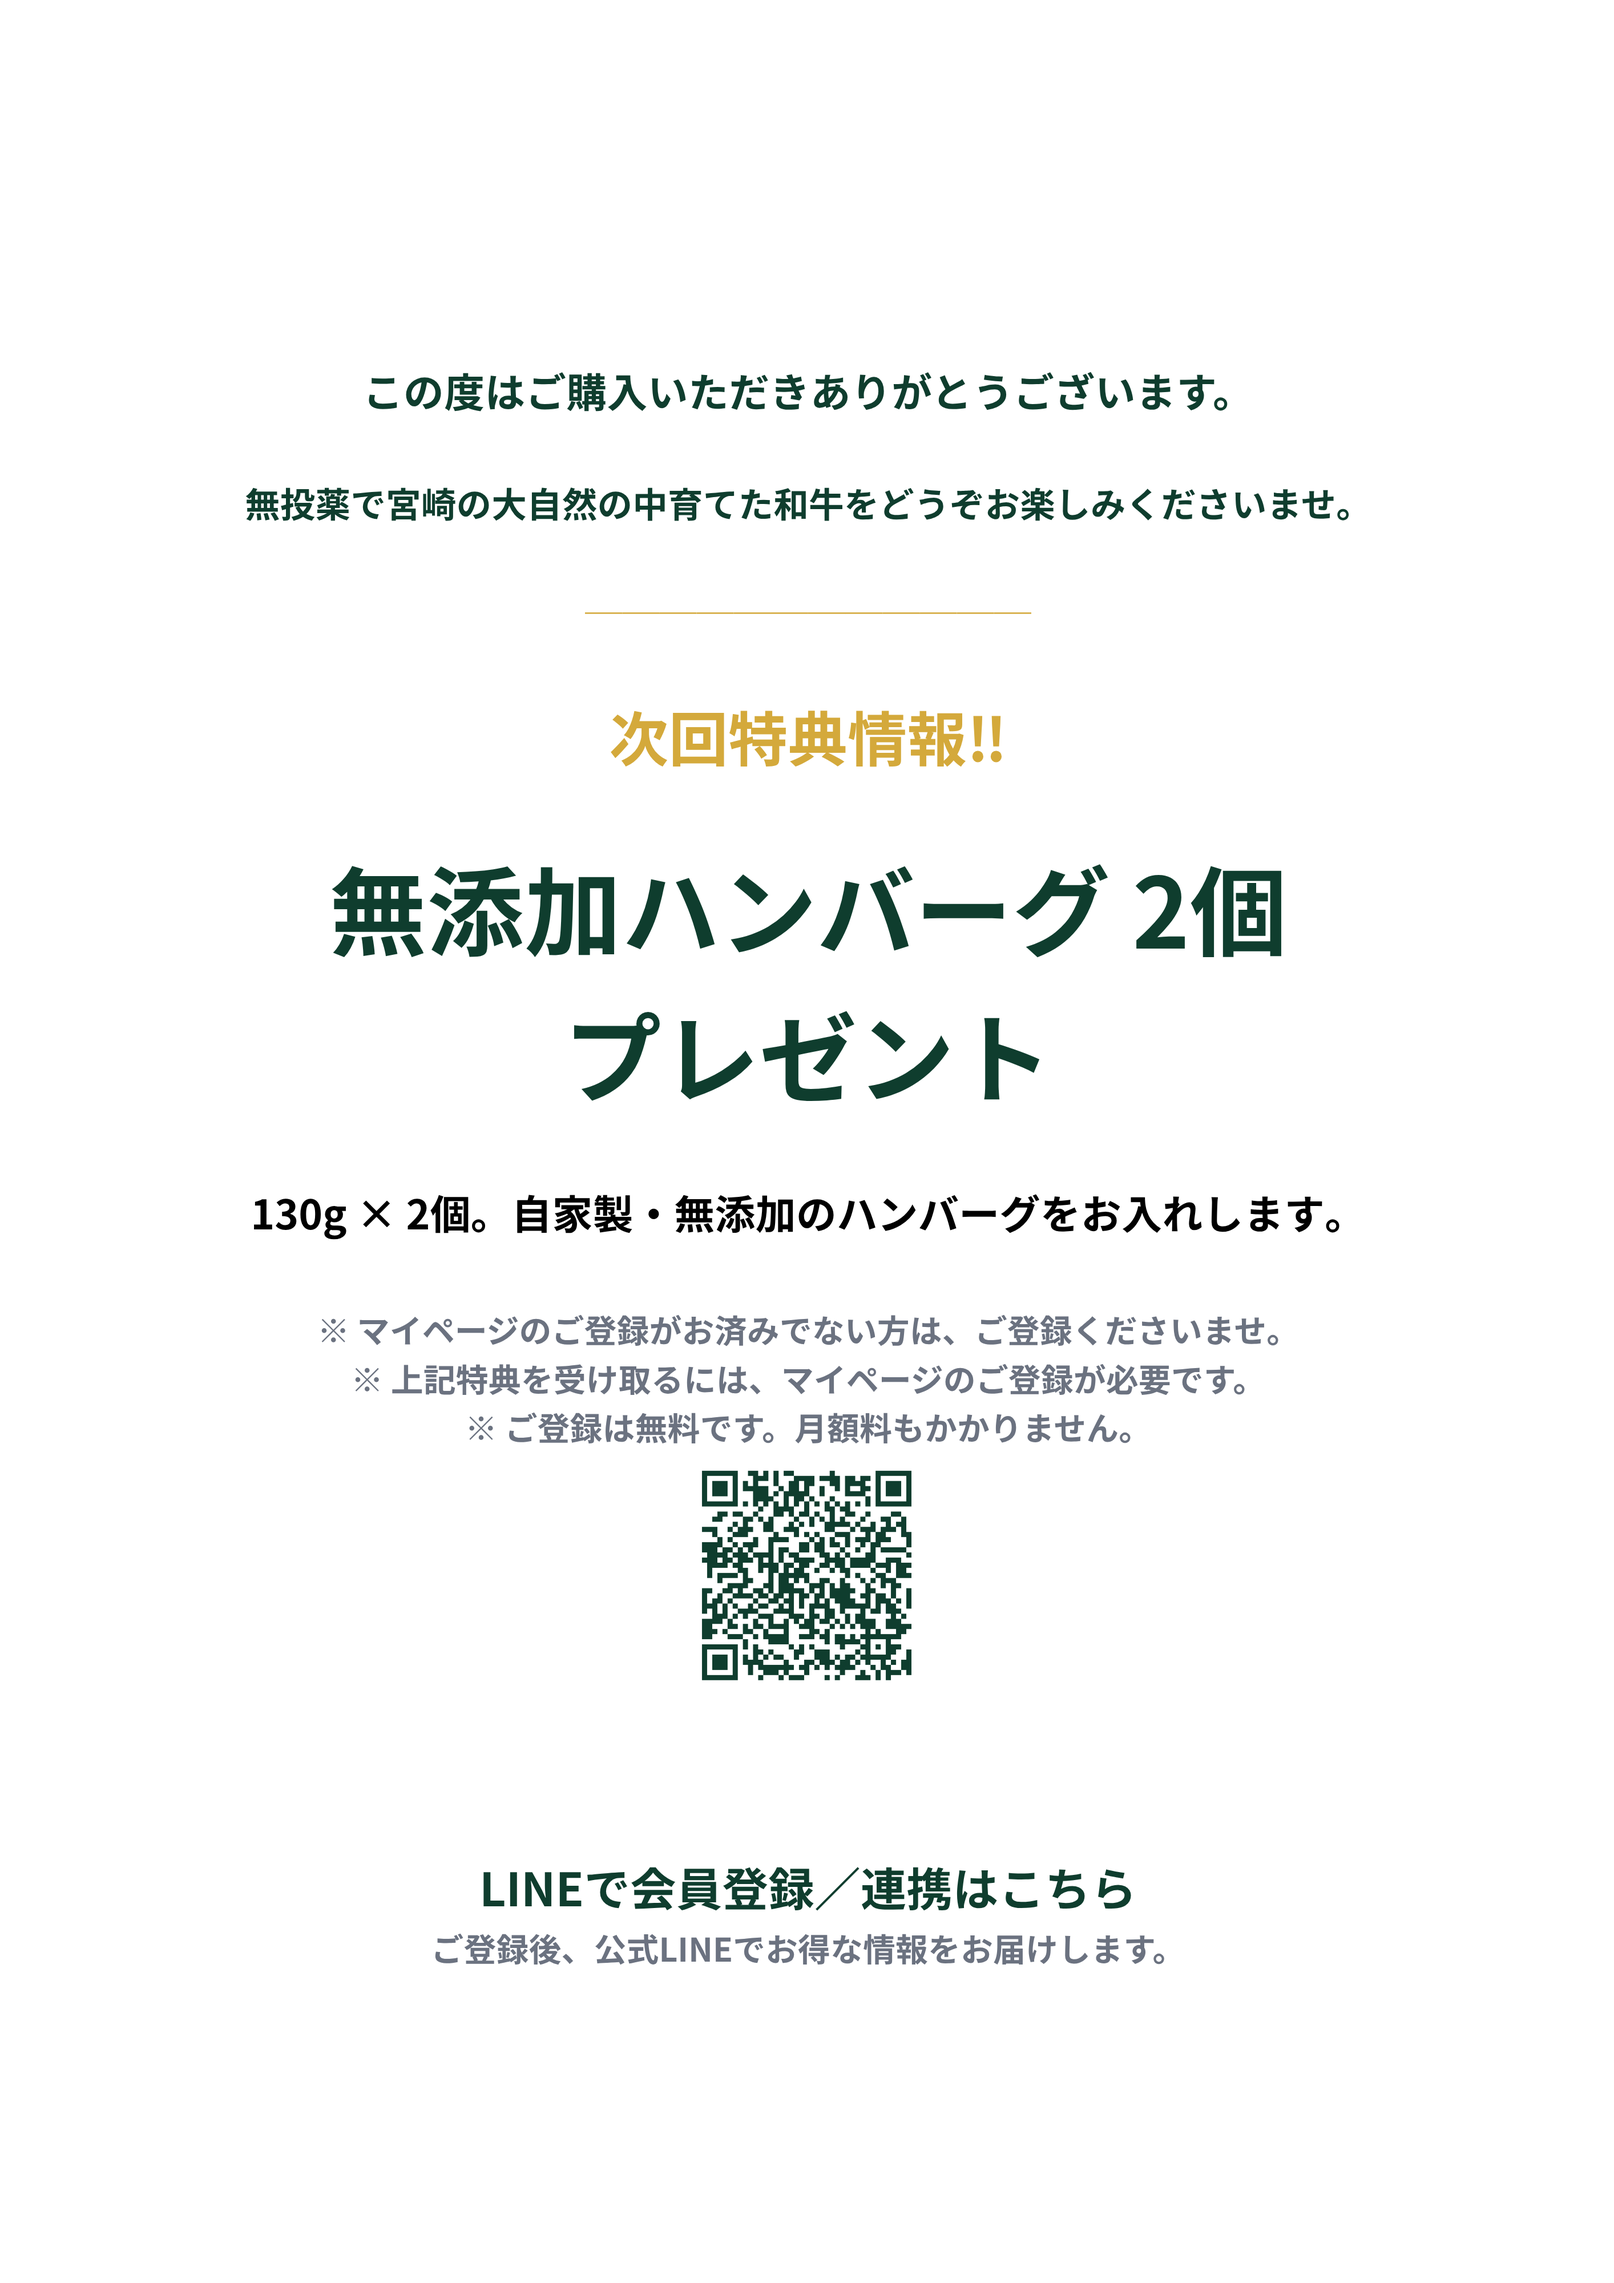
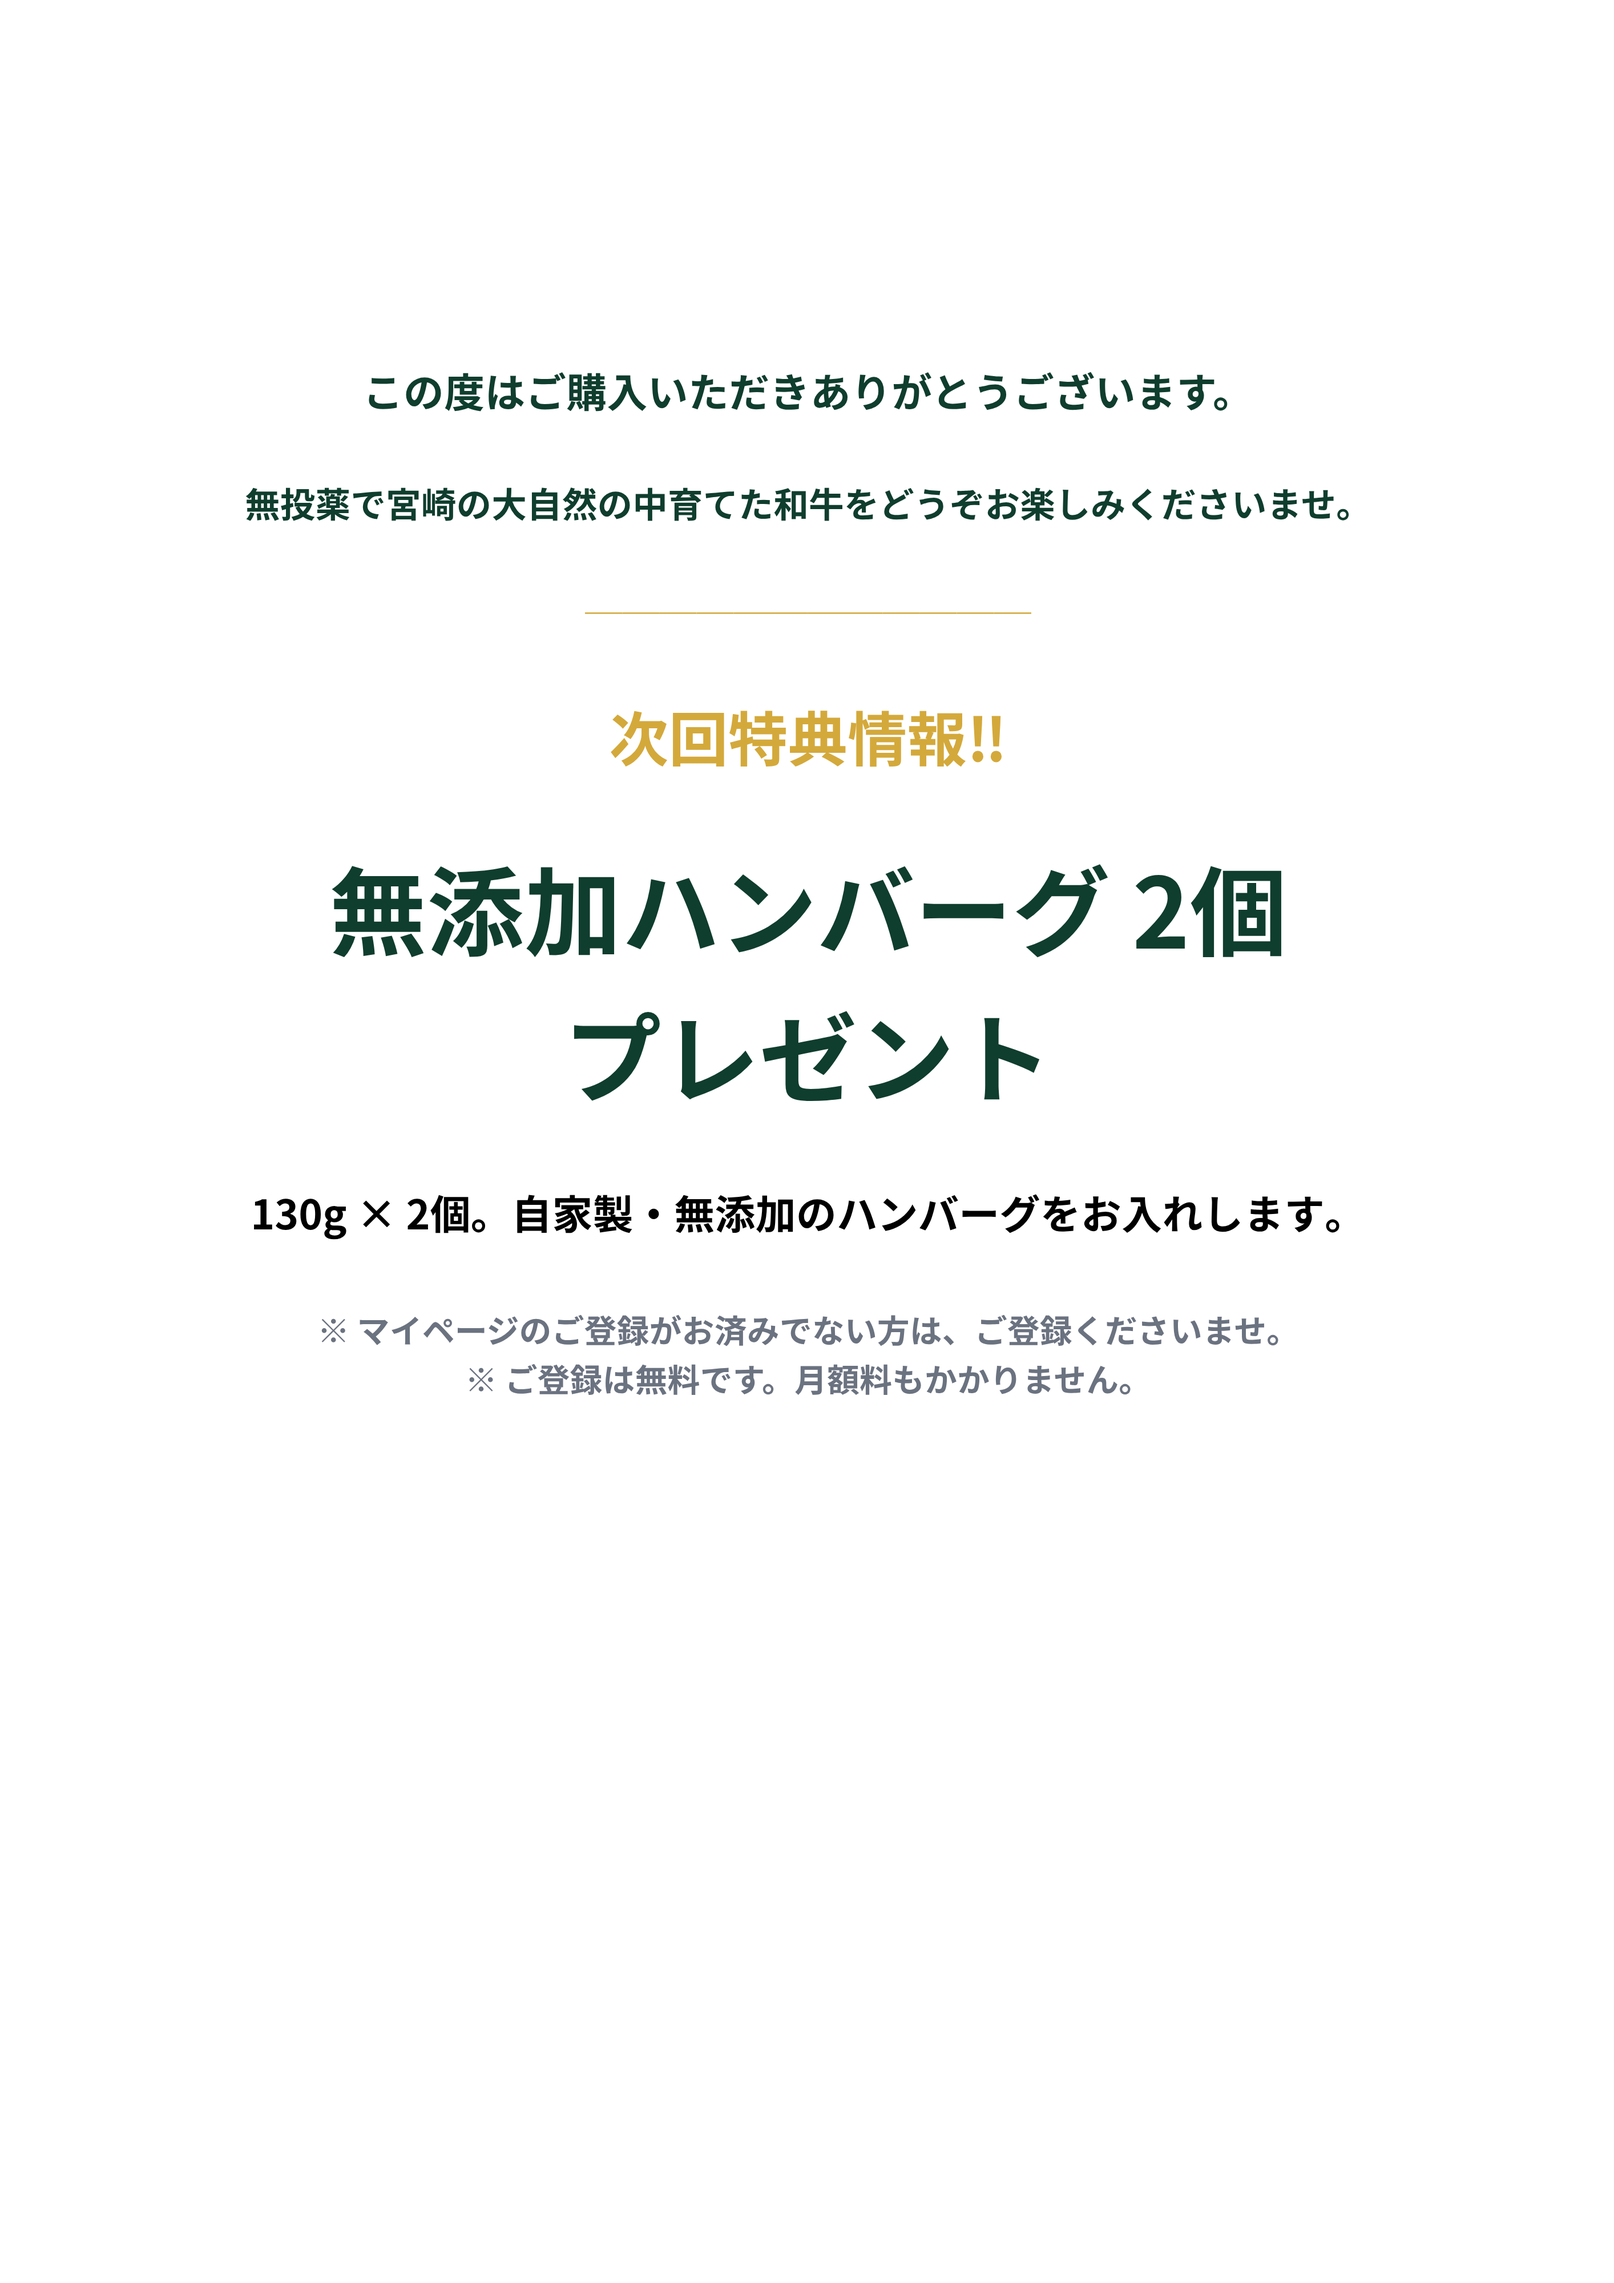
同梱用紙から「特典を受け取るにはマイページ登録が必要」の1行を削除
実装はご注文時のメールアドレスで購入回数を数えており、マイページ登録がなくても
特典は付く（登録が要るのはクーポンのみ）。事実と違う1行を絵柄5枚から削除して
書き出し直した。残る2行（登録のお願い／無料である旨）は事実なのでそのまま。
登録を促す役割は、下の案内文（未連携の方に出るQR付きの2行）が担う。

Changed region(s): [[0.2489, 0.5938, 0.7779, 0.75], [0.2801, 0.8125, 0.7157, 0.875]]

diff --git a/sw.js b/sw.js
@@ -3,7 +3,7 @@
    - Strategy: network-first for HTML/JS/CSS, cache-first for images & fonts
    - Version bump invalidates old cache
    ============================================================ */
-const CACHE_VERSION = 'eda-v2026-09-01-240-reward-sheet-name';
+const CACHE_VERSION = 'eda-v2026-09-01-242-reward-note';
 const CORE_ASSETS = [
   './',
   'index.html',
